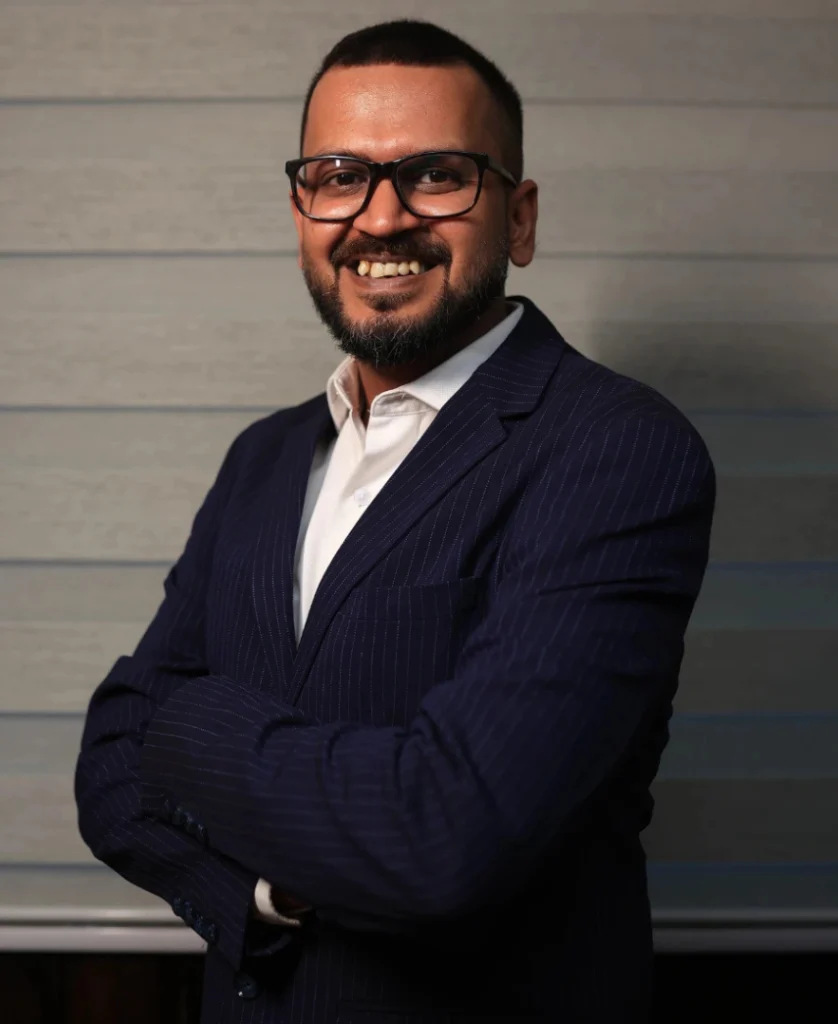
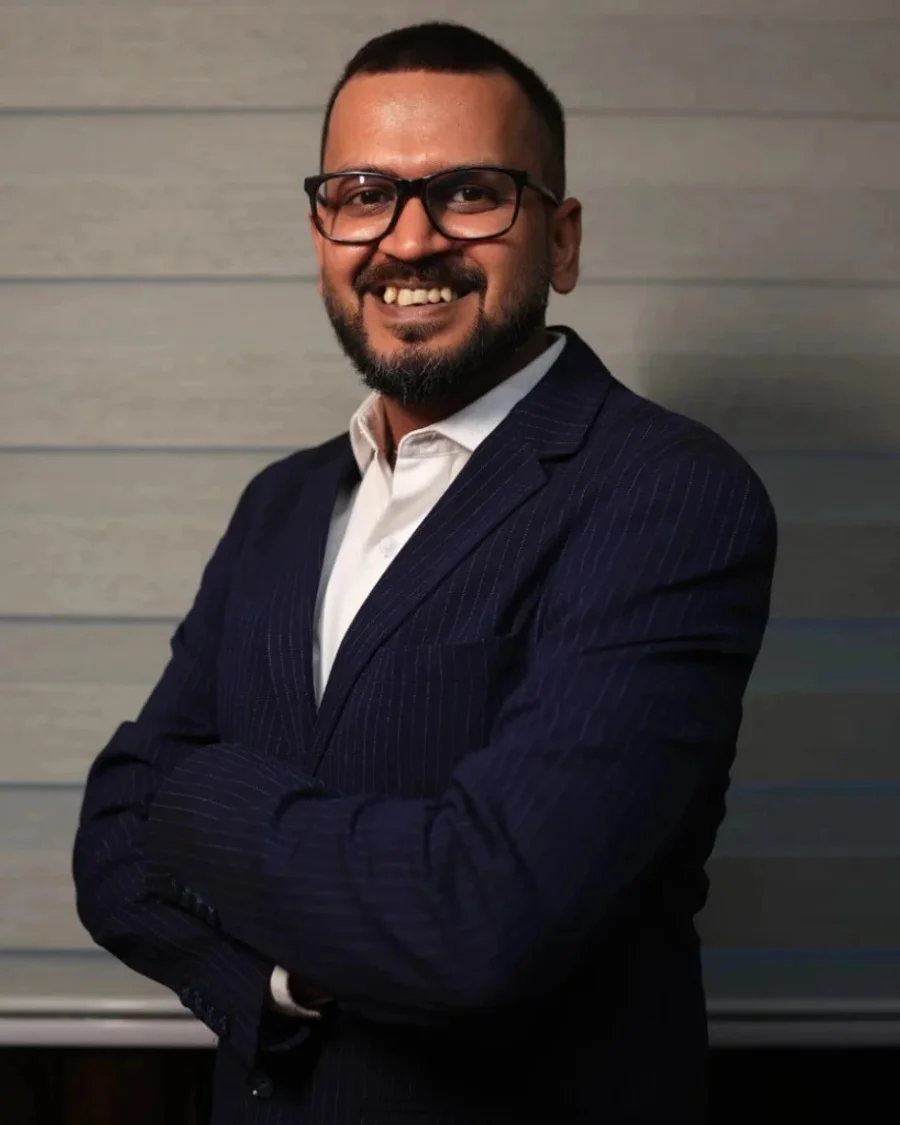
fix: add ornate frame around board member portraits, refresh photos
- convert new 4:5 board member photos to webp, replacing the old set
- trim transparent margin off frame.png and overlay it on portrait photos
  on both the founder tribute and executive board cards
- keep 2frame.png (pre-cropped 4:5 frame variant) in public for later use

diff --git a/app/(site)/about/board-of-directors/page.tsx b/app/(site)/about/board-of-directors/page.tsx
@@ -57,13 +57,23 @@ export default function BoardOfDirectorsPage() {
               </p>
               <p className="text-text-body text-base leading-relaxed">{TRIBUTE_DIRECTOR.bio}</p>
             </div>
-            <div className="relative z-[2] aspect-[4/5] max-w-md mx-auto w-full rounded-2xl overflow-hidden">
+            <div className="relative z-[2] aspect-[1000/1314] max-w-md mx-auto w-full">
+              <div className="absolute inset-x-[11.1%] inset-y-[8.45%] overflow-hidden">
+                <Image
+                  src={TRIBUTE_DIRECTOR.image}
+                  alt={TRIBUTE_DIRECTOR.name}
+                  fill
+                  sizes="(min-width: 1024px) 33vw, 80vw"
+                  className="object-cover"
+                />
+              </div>
               <Image
-                src={TRIBUTE_DIRECTOR.image}
-                alt={TRIBUTE_DIRECTOR.name}
+                src="/board-members/frame-trimmed.png"
+                alt=""
                 fill
+                aria-hidden="true"
                 sizes="(min-width: 1024px) 33vw, 80vw"
-                className="object-cover"
+                className="object-cover pointer-events-none"
               />
             </div>
           </div>
@@ -86,13 +96,23 @@ export default function BoardOfDirectorsPage() {
               <article key={director.name} className="relative h-full">
                 <CardGlow className="h-full p-8">
                   <div className="flex flex-col sm:flex-row gap-6">
-                    <div className="relative z-[2] aspect-[4/5] w-full sm:w-40 shrink-0 rounded-xl overflow-hidden">
+                    <div className="relative z-[2] aspect-[1000/1314] w-full sm:w-40 shrink-0">
+                      <div className="absolute inset-x-[11.1%] inset-y-[8.45%] overflow-hidden">
+                        <Image
+                          src={director.image}
+                          alt={director.name}
+                          fill
+                          sizes="160px"
+                          className="object-cover"
+                        />
+                      </div>
                       <Image
-                        src={director.image}
-                        alt={director.name}
+                        src="/board-members/frame-trimmed.png"
+                        alt=""
                         fill
+                        aria-hidden="true"
                         sizes="160px"
-                        className="object-cover"
+                        className="object-cover pointer-events-none"
                       />
                     </div>
                     <div className="min-w-0">
